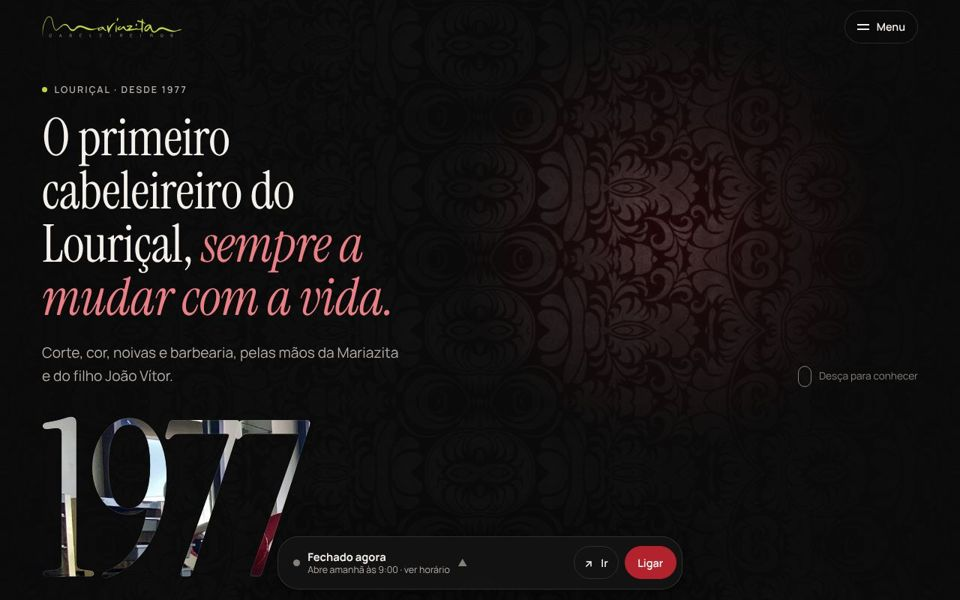
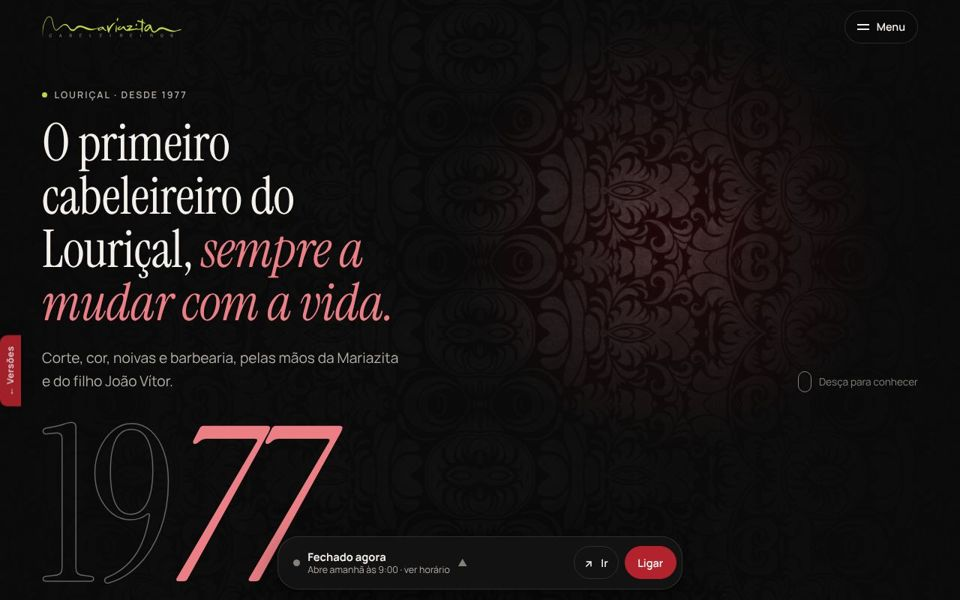
Inovador: visita guiada dentro da foto e 1977 sem foto
Os pontos passam a abrir a zona dentro da própria fotografia, com
botão para voltar ao salão; saem os botões repetidos por baixo.
O 1977 da abertura fica em contorno com o 77 a vermelho.

Claude-Session: https://claude.ai/code/session_01CrbcXm8aMZjSWZEgjEZbeu

diff --git a/inovador/index.html b/inovador/index.html
@@ -77,10 +77,9 @@ section{position:relative;padding-block:clamp(5rem,12vw,9rem)}
 .hero .hint span::after{content:"";position:absolute;left:50%;top:5px;width:3px;height:6px;margin-left:-1.5px;border-radius:2px;background:var(--fg);animation:wheel 1.6s infinite}
 @keyframes wheel{0%{transform:translateY(0);opacity:1}70%{transform:translateY(8px);opacity:0}100%{opacity:0}}
 /* O ano gigante, com a fotografia do salão dentro das letras */
-.year-photo{font-family:var(--serif);font-size:min(31vw,36svh);line-height:.8;letter-spacing:-.04em;margin-top:clamp(1.5rem,3vw,2.5rem);
-  background:url(fotos/espaco-salao.jpg) center 40%/cover;-webkit-background-clip:text;background-clip:text;color:transparent;
-  -webkit-text-stroke:1px rgba(255,255,255,.12);user-select:none;white-space:nowrap}
-@supports not ((-webkit-background-clip:text) or (background-clip:text)){.year-photo{color:var(--fg)}}
+.year-photo{font-family:var(--serif);font-size:min(31vw,36svh);line-height:.8;letter-spacing:-.03em;margin-top:clamp(1.5rem,3vw,2.5rem);user-select:none;white-space:nowrap;
+  color:transparent;-webkit-text-stroke:1.5px rgba(244,241,236,.38)}
+.year-photo em{font-style:italic;color:var(--red-soft);-webkit-text-stroke:0}
 
 /* Faixa de serviços a correr */
 .marquee{border-block:1px solid var(--line);overflow:hidden;padding-block:1.1rem;padding-inline:0}
@@ -133,21 +132,34 @@ section{position:relative;padding-block:clamp(5rem,12vw,9rem)}
 .swipe-hint{font-size:.85rem;color:var(--dim)}
 
 /* O ESPAÇO: visita guiada com pontos */
-.tour{position:relative;margin-top:clamp(2rem,5vw,3rem);border-radius:22px;overflow:hidden}
-.tour > img{width:100%;aspect-ratio:16/8;object-fit:cover}
-@media (max-width:640px){.tour > img{aspect-ratio:4/3}}
-.spot{position:absolute;width:44px;height:44px;margin:-22px 0 0 -22px;border-radius:50%;border:0;background:rgba(255,255,255,.95);color:#111;cursor:pointer;display:grid;place-items:center;font-size:1.3rem;font-weight:600;box-shadow:0 6px 20px rgba(0,0,0,.35);transition:transform .25s var(--ease),background .2s,color .2s}
+.tour{position:relative;margin-top:clamp(2rem,5vw,3rem);border-radius:22px;overflow:hidden;aspect-ratio:16/8;background:#000;isolation:isolate}
+@media (max-width:640px){.tour{aspect-ratio:4/3}.tour-hint{display:none}}
+.tour .stage{position:absolute;inset:0}
+.tour .layer{position:absolute;inset:0;width:100%;height:100%;object-fit:cover;transition:transform 1s var(--ease),opacity .6s .25s}
+.tour .base{transform-origin:var(--ox,50%) var(--oy,50%)}
+.tour.zoomed .base{transform:scale(1.9)}
+.tour .detail{opacity:0}
+.tour .detail.on{opacity:1}
+.tour::after{content:"";position:absolute;inset:0;z-index:1;pointer-events:none;background:linear-gradient(180deg,rgba(0,0,0,.35),transparent 28%,transparent 55%,rgba(0,0,0,.72));opacity:.6;transition:opacity .5s}
+.tour.zoomed::after{opacity:1}
+.spot{position:absolute;z-index:2;width:48px;height:48px;margin:-24px 0 0 -24px;border-radius:50%;border:0;background:rgba(255,255,255,.95);color:#111;cursor:pointer;display:grid;place-items:center;font-size:1.3rem;font-weight:600;box-shadow:0 6px 20px rgba(0,0,0,.35);transition:transform .25s var(--ease),background .2s,color .2s,opacity .3s}
 .spot::after{content:"";position:absolute;inset:-6px;border-radius:50%;border:2px solid rgba(255,255,255,.7);animation:ping 2.2s infinite}
 @keyframes ping{0%{transform:scale(.8);opacity:1}100%{transform:scale(1.6);opacity:0}}
-.spot:hover,.spot[aria-expanded="true"]{background:var(--red);color:#fff;transform:scale(1.08)}
-.tour-info{display:grid;grid-template-columns:minmax(0,1fr) minmax(0,1.4fr);gap:1.5rem;align-items:center;margin-top:1.4rem;min-height:9rem}
-@media (max-width:700px){.tour-info{grid-template-columns:1fr}}
-.tour-info img{width:100%;aspect-ratio:16/10;object-fit:cover;border-radius:14px}
-.tour-info h3{font-family:var(--serif);font-size:clamp(1.8rem,1.4rem + 1.4vw,2.6rem)}
-.tour-info p{color:var(--muted);margin-top:.5rem}
-.tour-tabs{display:flex;flex-wrap:wrap;gap:.5rem;margin-top:1rem}
-.tour-tabs button{min-height:40px;padding:.4rem .95rem;border-radius:999px;border:1px solid var(--line);background:transparent;cursor:pointer;font-size:.88rem;font-weight:600}
-.tour-tabs button[aria-pressed="true"]{background:var(--fg);color:var(--bg);border-color:var(--fg)}
+.spot:hover{background:var(--red);color:#fff;transform:scale(1.08)}
+.spot .lbl{position:absolute;left:calc(100% + 10px);top:50%;transform:translateY(-50%);white-space:nowrap;padding:.3rem .7rem;border-radius:999px;background:rgba(11,11,11,.75);backdrop-filter:blur(6px);color:var(--fg);font-size:.82rem;font-weight:600;pointer-events:none}
+.spot.left .lbl{left:auto;right:calc(100% + 10px)}
+.tour-other{position:absolute;z-index:2;top:14px;right:14px;min-height:44px;padding:.5rem 1rem;border-radius:999px;border:1px solid rgba(255,255,255,.35);background:rgba(11,11,11,.6);backdrop-filter:blur(8px);color:var(--fg);font-weight:600;font-size:.88rem;cursor:pointer;transition:background .2s,opacity .3s}
+.tour-other:hover{background:var(--red);border-color:var(--red)}
+.tour-hint{position:absolute;z-index:2;top:14px;left:14px;padding:.45rem .9rem;border-radius:999px;background:rgba(11,11,11,.6);backdrop-filter:blur(8px);font-size:.85rem;color:var(--fg);transition:opacity .3s}
+.tour.zoomed .spot,.tour.zoomed .tour-other,.tour.zoomed .tour-hint{opacity:0;pointer-events:none}
+.tour-card{position:absolute;z-index:3;left:clamp(12px,2.5vw,28px);bottom:clamp(12px,2.5vw,28px);right:clamp(12px,2.5vw,28px);max-width:30rem;padding:1.2rem 1.3rem;border-radius:16px;background:rgba(11,11,11,.78);backdrop-filter:blur(12px);border:1px solid var(--line);opacity:0;transform:translateY(16px);pointer-events:none;transition:opacity .4s .35s,transform .5s .35s var(--ease)}
+.tour.zoomed .tour-card{opacity:1;transform:none;pointer-events:auto}
+.tour-card h3{font-family:var(--serif);font-size:clamp(1.6rem,1.3rem + 1vw,2.2rem)}
+.tour-card p{color:var(--muted);margin-top:.35rem;font-size:.97rem}
+.tour-card button{margin-top:.9rem;min-height:44px;padding:.5rem 1rem;border-radius:999px;border:1px solid var(--line);background:transparent;cursor:pointer;font-weight:600;font-size:.9rem}
+.tour-card button:hover{border-color:var(--fg)}
+@media (max-width:640px){.spot .lbl{display:none}.spot{left:var(--xm)!important}}
+@media (max-width:640px){.tour{aspect-ratio:auto;height:auto;overflow:visible;background:none;border-radius:0}.tour .stage{position:relative;aspect-ratio:4/3;border-radius:18px;overflow:hidden}.tour-card{position:relative;left:auto;right:auto;bottom:auto;max-width:none;margin-top:.8rem;display:none;opacity:1;transform:none;transition:none}.tour.zoomed .tour-card{display:block}.tour::after{display:none}}
 
 /* HISTÓRIA: arrastar pelo tempo */
 .history{background:var(--bg) url(damasco.jpg) center/auto 180px repeat;isolation:isolate}
@@ -285,7 +297,7 @@ footer.site a:hover{color:var(--fg)}
         </div>
         <p class="hint"><span aria-hidden="true"></span>Desça para conhecer</p>
       </div>
-      <div class="year-photo" aria-hidden="true">1977</div>
+      <div class="year-photo" aria-hidden="true">19<em>77</em></div>
     </div>
   </section>
 
@@ -354,19 +366,20 @@ footer.site a:hover{color:var(--fg)}
         <p class="kicker">O espaço</p>
         <h2 style="margin-top:1rem">Entre e <em>dê uma volta.</em></h2>
       </div>
-      <div class="tour rise">
-        <img src="fotos/espaco-salao.jpg" alt="O salão por dentro: postos de corte, cadeiras vermelhas e brancas e grandes janelas" loading="lazy">
-        <button class="spot" style="left:28%;top:58%" data-i="0" aria-expanded="true" aria-label="Postos de corte">+</button>
-        <button class="spot" style="left:80%;top:62%" data-i="1" aria-expanded="false" aria-label="Sala de espera">+</button>
-      </div>
-      <div class="tour-tabs" role="group" aria-label="Escolher zona do salão">
-        <button aria-pressed="true" data-i="0">Postos de corte</button>
-        <button aria-pressed="false" data-i="1">Sala de espera</button>
-        <button aria-pressed="false" data-i="2">Lavagem e receção</button>
-      </div>
-      <div class="tour-info" aria-live="polite">
-        <img id="tour-img" src="fotos/espaco-cadeiras.jpg" alt="Postos de corte" loading="lazy">
-        <div><h3 id="tour-title">Postos de corte</h3><p id="tour-text">Espelhos amplos e as cadeiras vermelhas e brancas que já são imagem do salão.</p></div>
+      <div class="tour rise" id="tour">
+        <div class="stage">
+        <img class="layer base" src="fotos/espaco-salao.jpg" alt="O salão por dentro: postos de corte, cadeiras vermelhas e brancas e grandes janelas" loading="lazy">
+        <img class="layer detail" data-z="0" src="fotos/espaco-cadeiras.jpg" alt="" loading="lazy">
+        <img class="layer detail" data-z="2" src="fotos/espaco-lavagem.jpg" alt="" loading="lazy">
+        <span class="tour-hint" aria-hidden="true">Toque num ponto para entrar</span>
+        <button class="spot" style="left:28%;top:58%;--xm:26%" data-z="0" aria-label="Ver os postos de corte">+<span class="lbl" aria-hidden="true">Postos de corte</span></button>
+        <button class="spot left" style="left:76%;top:60%;--xm:86%" data-z="1" aria-label="Ver a sala de espera">+<span class="lbl" aria-hidden="true">Sala de espera</span></button>
+        <button class="tour-other" data-z="2">↻ Do outro lado: lavagem</button>
+        </div>
+        <div class="tour-card" aria-live="polite">
+          <h3 id="tour-title"></h3><p id="tour-text"></p>
+          <button type="button" id="tour-back">← Voltar ao salão</button>
+        </div>
       </div>
     </div>
   </section>
@@ -569,19 +582,23 @@ footer.site a:hover{color:var(--fg)}
 
   // ---------- Visita guiada ----------
   var Z=[
-    {t:'Postos de corte',p:'Espelhos amplos e as cadeiras vermelhas e brancas que já são imagem do salão.',i:'fotos/espaco-cadeiras.jpg'},
-    {t:'Sala de espera',p:'Sofás junto às grandes janelas, com muita luz natural.',i:'fotos/espaco-salao.jpg'},
-    {t:'Lavagem e receção',p:'Cadeiras de lavagem confortáveis, o balcão da receção e os produtos que usamos.',i:'fotos/espaco-lavagem.jpg'}
+    {t:'Postos de corte',p:'Espelhos amplos e as cadeiras vermelhas e brancas que já são imagem do salão.',x:'28%',y:'58%'},
+    {t:'Sala de espera',p:'Sofás junto às grandes janelas, com muita luz natural.',x:'82%',y:'60%'},
+    {t:'Lavagem e receção',p:'Do outro lado do salão: cadeiras de lavagem, o balcão da receção e os produtos que usamos.',x:'50%',y:'50%'}
   ];
-  var spots=document.querySelectorAll('.spot'), tabs=document.querySelectorAll('.tour-tabs button');
-  function zone(i){
-    var z=Z[i],im=document.getElementById('tour-img');
-    im.src=z.i;im.alt=z.t;document.getElementById('tour-title').textContent=z.t;document.getElementById('tour-text').textContent=z.p;
-    spots.forEach(function(s){s.setAttribute('aria-expanded',s.getAttribute('data-i')==i)});
-    tabs.forEach(function(s){s.setAttribute('aria-pressed',s.getAttribute('data-i')==i)});
+  var tour=document.getElementById('tour'), base=tour.querySelector('.base'), dets=tour.querySelectorAll('.detail'), back=document.getElementById('tour-back'), opener=null;
+  function enter(i,btn){
+    var z=Z[i];opener=btn;
+    tour.style.setProperty('--ox',z.x);tour.style.setProperty('--oy',z.y);
+    document.getElementById('tour-title').textContent=z.t;document.getElementById('tour-text').textContent=z.p;
+    tour.classList.add('zoomed');
+    dets.forEach(function(d){d.classList.toggle('on',+d.getAttribute('data-z')===i)});
+    setTimeout(function(){back.focus({preventScroll:true})},reduce?0:400);
   }
-  spots.forEach(function(s){s.addEventListener('click',function(){zone(+s.getAttribute('data-i'))})});
-  tabs.forEach(function(s){s.addEventListener('click',function(){zone(+s.getAttribute('data-i'))})});
+  function leave(){tour.classList.remove('zoomed');dets.forEach(function(d){d.classList.remove('on')});if(opener)opener.focus({preventScroll:true})}
+  tour.querySelectorAll('[data-z]').forEach(function(b){if(b.tagName==='BUTTON')b.addEventListener('click',function(){enter(+b.getAttribute('data-z'),b)})});
+  back.addEventListener('click',leave);
+  tour.addEventListener('keydown',function(e){if(e.key==='Escape'&&tour.classList.contains('zoomed'))leave()});
 
   // ---------- História: seletor de tempo ----------
   var E=[
